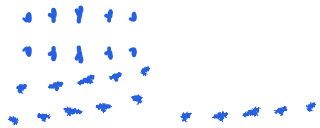
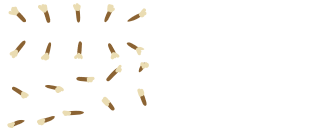
i made a broom

diff --git a/minigame/minigame1.py b/minigame/minigame1.py
@@ -56,13 +56,13 @@ class Game:
             if event.type == pygame.KEYDOWN:
                 if event.key == pygame.K_SPACE:
                     if self.player.facing == "up":
-                        Clean(self, self.player.rect.x+10, self.player.rect.y-7)
+                        Clean(self, self.player.rect.x, self.player.rect.y-TILESIZE)
                     if self.player.facing == "down":
-                        Clean(self, self.player.rect.x+10, self.player.rect.y+7)
+                        Clean(self, self.player.rect.x, self.player.rect.y+TILESIZE)
                     if self.player.facing == "left":
-                        Clean(self, self.player.rect.x-7, self.player.rect.y)
+                        Clean(self, self.player.rect.x-TILESIZE, self.player.rect.y)
                     if self.player.facing == "right":
-                        Clean(self, self.player.rect.x+7, self.player.rect.y-10)
+                        Clean(self, self.player.rect.x+TILESIZE, self.player.rect.y)
 
     
     def update(self):
